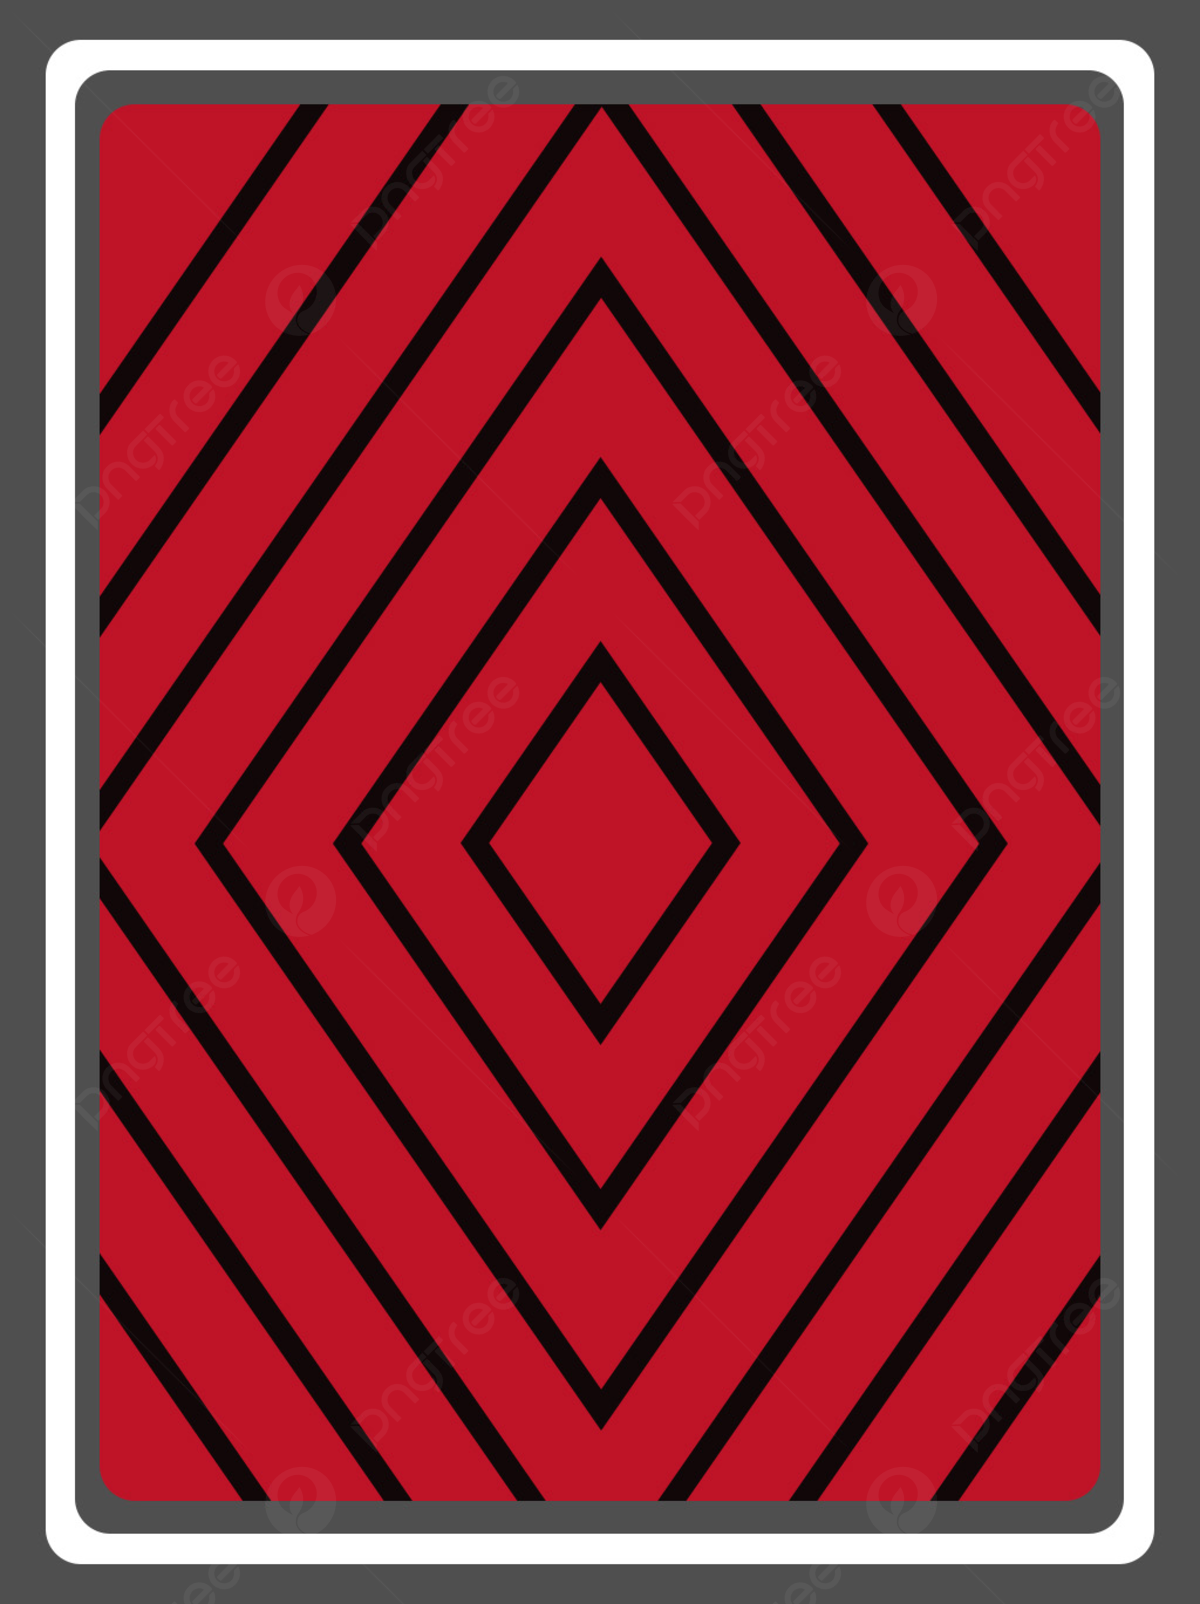
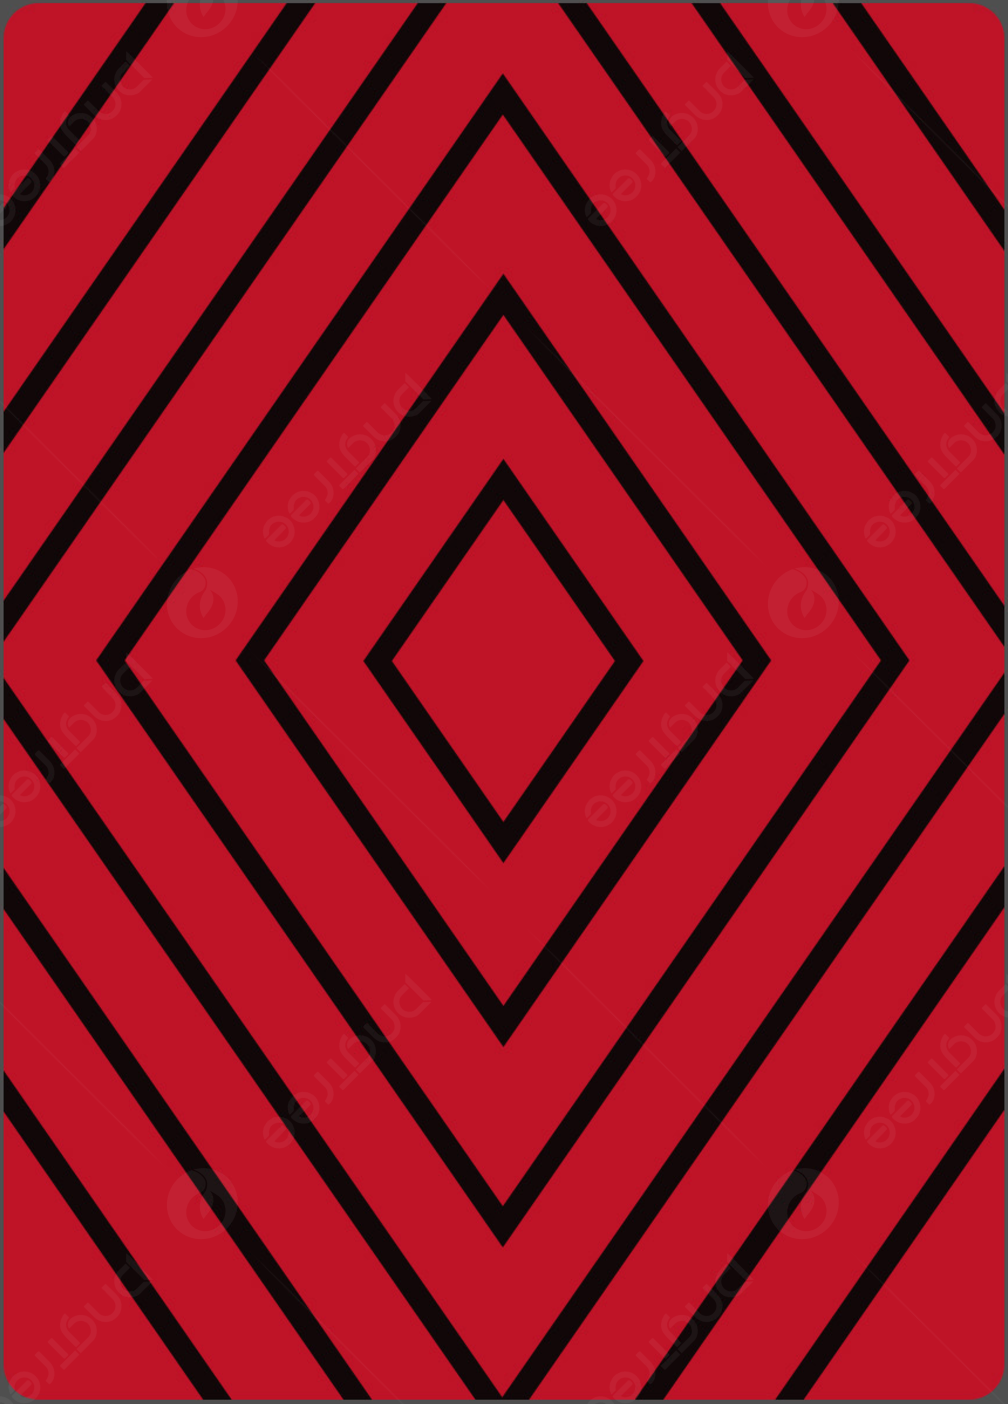
added border radius for the cards and imroved layout slightly

diff --git a/src/App.css b/src/App.css
@@ -13,11 +13,13 @@ body {
 
 .cards-container {
   width: 80%;
+  height: 80vh;
   margin: 50px auto;
   display: grid;
-  grid-template-columns: repeat(auto-fit, 20%);
-  grid-gap: 80px;
+  grid-template-columns: repeat(4, 1fr);
+  grid-gap: 25px;
   justify-items: center;
+  align-items: center;
 }
 
 .card {
@@ -29,8 +31,8 @@ body {
 
 .card div {
   position: absolute;
-  width: 100%;
-  height: 100%;
+  width: 90%;
+  height: 90%;
   backface-visibility: hidden;
   transition: transform 0.6s ease;
 }
@@ -42,11 +44,13 @@ body {
 .front {
   transform: rotateY(0deg);
   background: url("./back.jpg") no-repeat center / cover;
+  border-radius: 5%;
 }
 
 .back {
   background: #fff;
   transform: rotateY(180deg);
+  border-radius: 5%;
 }
 
 .card.flipped .front {
